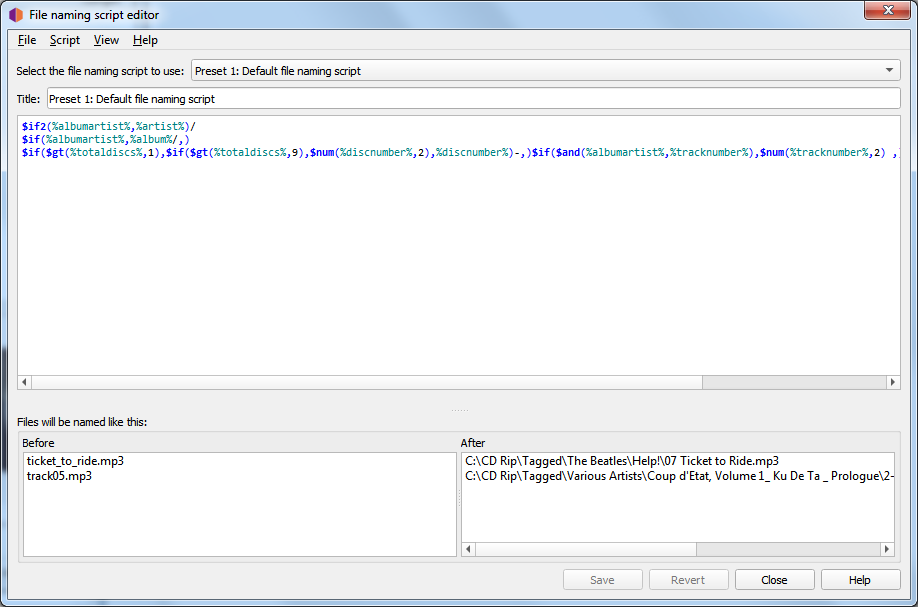
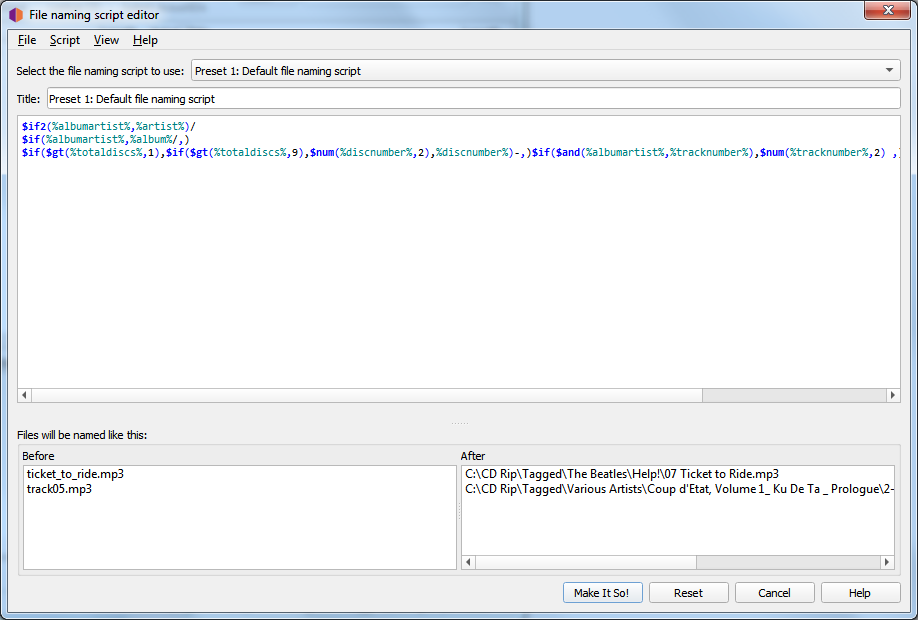
Updates to script editor documentation

diff --git a/config/options_filerenaming_editor.rst b/config/options_filerenaming_editor.rst
@@ -80,15 +80,17 @@ The editor screen has the following sections:
 
    * Import a new script from a file, either as a plain-text script or a Picard Naming Script Package.
    * Export the current script to a file, either as a plain-text script or a Picard Naming Script Package.
-   * Add a new (empty) script.
+   * Add a new (default) script.
    * Copy the current script as a new script.
    * Delete the current script.
-   * Save changes to the current script.
-   * Revert the current script to the last time it was saved.
+   * Reset all scripts, also available via the :guilabel:`Reset` button.
+   * Save all changes, also available via the :guilabel:`Make It So!` button.
+   * Exit without saving changes, also available via the :guilabel:`Cancel` button.
 
-   There is also an option to edit the metadata details for the current script. These details include such things as title,
-   author, version, license, description, and date and time of the last update. It is recommended that the description
-   include things such as any required plugins, settings, or tagging scripts.
+   There is also an option to view/edit the metadata details for the current script. These details include such things as title,
+   author, version, license, description, and date and time of the last update. It is recommended that the description include
+   things such as any required plugins, settings, or tagging scripts.  This can also be triggered by double clicking the script
+   title text box.
 
    .. image:: images/options-filenaming-editor-metadata.png
       :width: 100 %

diff --git a/extending/scripts.rst b/extending/scripts.rst
@@ -17,6 +17,11 @@ for use.  File naming scripts can vary from a simple one-line script such as ``%
 complex script using different file naming formats based on different criteria. In all cases, the files
 will be saved using the text output by the script.
 
+File naming scripts are managed using the :doc:`../config/options_filerenaming_editor` which can be opened
+from the "File Naming" section of the :menuselection:`"Options --> Options..."` menu, or directly from the
+:menuselection:`"Options --> Open file naming script editor..."` menu item. The current file naming script
+can also be selected directly from the :menuselection:`"Options --> Select file naming script"` menu.
+
 .. note::
 
    Any new tags set or tags modified by the file naming script will **not** be written to the output

diff --git a/appendices/keyboard_shortcuts.rst b/appendices/keyboard_shortcuts.rst
@@ -142,7 +142,6 @@ File naming script editor
    "Use selected completion", :kbd:`Tab` |br| |nl| :kbd:`Return`, :kbd:`Tab` |br| |nl| :kbd:`Return`
    "Hide completions", :kbd:`Esc`, :kbd:`Esc`
    "Edit script metadata", :kbd:`Ctrl+M`, :kbd:`⌘+M`
-   "Save changes to script", :kbd:`Ctrl+S`, :kbd:`⌘+S`
    "Word wrap on/off", :kbd:`Ctrl+Shift+W`, :kbd:`⌘+⇧+W`
    "Show/hide help tooltips", :kbd:`Ctrl+Shift+T`, :kbd:`⌘+⇧+T`
    "Show/hide documentation", :kbd:`Ctrl+H`, :kbd:`⌘+H`
